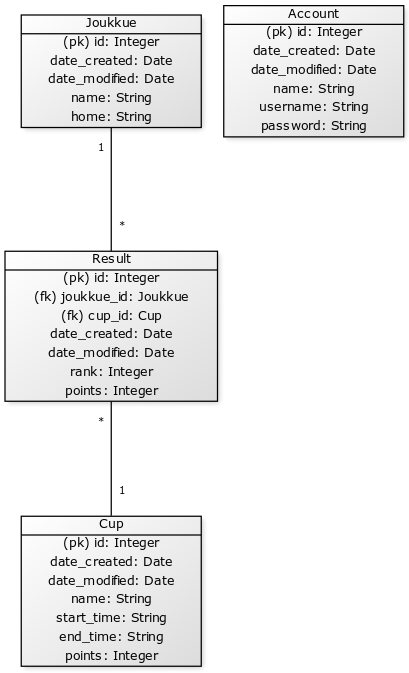
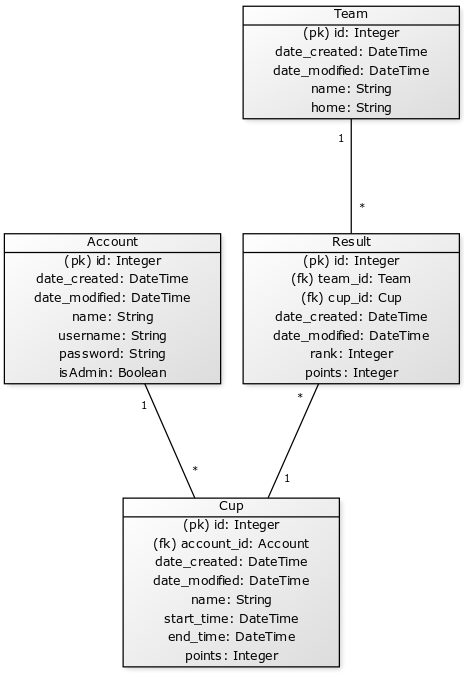
päivitettiin dokumentaatiota

Changed region(s): [[0.0, 0.0, 0.9976, 0.9985], [0.0293, 0.0312, 0.0587, 0.1872], [0.6161, 0.6241, 0.6455, 0.6865]]

diff --git a/README.md b/README.md
@@ -8,10 +8,10 @@ Rankkauslista pitää kirjaa turnauksista ja niissä jaettavista pisteistä, tur
 
 Toimintoja:
 
-* ylläpidon kirjautuminen  
-* joukkueen rekisteröinti  
-* joukkueen tietojen muokkaus ja poisto  
-* turnaukseen ilmoittautuminen  
+* ylläpidon kirjautuminen
+* turnausjärjestäjän kirjautuminen
+* joukkueen luominen, tietojen muokkaus ja poisto  
+* joukkueiden lisääminen turnaukseen  
 * turnaukseen ilmoittautuneiden rankkaus  
 * turnaustulosten kirjaus ja korjaus  
 * yleinen rankkaustilanteen katselu  
@@ -25,9 +25,55 @@ Toimintoja:
 
 [Tietokantakaavio](../master/documentation/tietokantakaavio.png)
 
-### Huomioita
+## Sovelluksen käyttö
 
 Sovelluksessa ei ole erillistä rekisteröitymistoimintoa. Sovelluksen ideana on, että kuka tahansa voi selata turnauksia, joukkueita ja tuloksia, mutta lisäämiseen tai muokkaamiseen tarvitaan tunnukset, joita pitää erikseen pyytää ylläpidolta. Voit tutustua sovelluksen toimintaan kirjautumalla sisään testitunnuksilla.
 
+Turnausjärjestäjän tunnukset: turnausten luominen, muokkaaminen ja poistaminen, joukkueiden lisääminen turnaukseen sekä kyseisen turnauksen tulosten päivittäminen ja poistaminen.
 * käyttäjätunnus: test
 * salasana: testuser1
+
+Ylläpitäjän tunnukset: kaikkien joukkueiden, turnausten ja tulosten luominen, päivittäminen ja poistaminen.
+* käyttäjätunnus: admin
+* salasana: adminuser1
+
+## Sovelluksen asentaminen
+
+### Tuotantoversio
+
+1. kloonaa lähdetiedostot omalle koneellesi haluamaasi kansioon
+```git
+git clone https://github.com/Niddis/Rankkauslista.git
+```
+2. mene kloonatun repositorion hakemistoon
+```git
+cd Rankkauslista
+```
+3. liitä kansio omaan github-repositorioosi
+```git
+git remote add origin _oman repositoriosi url_
+```
+4. pushaa esim. Herokuun
+
+### Paikallinen versio
+
+1. kloonaa lähdetiedostot omalle koneellesi haluamaasi kansioon
+```git
+git clone https://github.com/Niddis/Rankkauslista.git
+```
+2. mene kloonatun repositorion hakemistoon
+```git
+cd Rankkauslista
+```
+3. luo hakemistoon Python-virtuaaliympäristö
+```
+python3 -m venv venv
+```
+4. käynnistä virtuaaliympäristö
+```
+source venv/bin/activate
+```
+5. käynnistä sovellus
+```
+python3 run.py
+```

diff --git a/documentation/kayttotapaukset.md b/documentation/kayttotapaukset.md
@@ -1,7 +1,17 @@
-Turnauksen järjestäjänä haluan lisätä turnaukseen joukkueita ja lisätä joukkueille pisteitä.
+#### Turnauksen järjestäjänä...
+* haluan luoda uusia turnauksia.
+* haluan lisätä luomaani turnaukseen joukkueita.
+* haluan päivittää turnauksen tuloksia.
 
-Lajin seuraajana haluan selata turnauksia, joukkueita ja turnausten tuloksia.
+#### Lajin seuraajana...
+* haluan selata turnauksia, joukkueita ja turnausten tuloksia.
+* haluan tietää miten joukkueeni pärjää suhteessa muihin joukkueisiin seuraamalla joukkueiden pistetilannetta.
 
-Lajin seuraajana haluan tietää miten joukkueeni pärjää suhteessa muihin joukkueisiin seuraamalla joukkueiden pistetilannetta.
+SQL-kysely: "SELECT Team.name, Team.home, SUM(Result.points) AS points, Team.id FROM Team LEFT JOIN Result ON Team.id = Result.team_id GROUP BY Team.name, Team.home, Team.id ORDER BY points DESC"
 
-Joukkueen omistajana tms. haluan lisätä joukkueeni rankkauslistalle.
+* haluan tietää, milloin seuraava turnaus järjestetään.
+
+SQL-kysely: "SELECT Cup.name, Cup.start_time, Cup.end_time, Cup.points, COUNT(Result.team_id) AS teams FROM Cup LEFT JOIN Result ON Cup.id = Result.cup_id WHERE Cup.start_time >= CURRENT_TIMESTAMP GROUP BY Cup.name, Cup.start_time, Cup.end_time, Cup.points ORDER BY Cup.start_time"
+
+#### Ylläpitäjänä...
+* haluan hallinoida joukkueita, turnauksia ja tuloksia.

diff --git a/documentation/CreateTable_lauseet.md b/documentation/CreateTable_lauseet.md
@@ -1,0 +1,41 @@
+CREATE TABLE Team (
+    id integer PRIMARY KEY,
+    date_created datetime,
+    date_modified datetime,
+    name varchar(144),
+    home varchar(144)
+);
+
+CREATE TABLE Account (
+    id integer PRIMARY KEY,
+    date_created datetime,
+    date_modified datetime,
+    name varchar(144),
+    username varchar(144),
+    password varchar(144),
+    isAdmin boolean
+);
+
+CREATE TABLE Cup (
+    id integer PRIMARY KEY,
+    date_created datetime,
+    date_modified datetime,
+    account_id integer,
+    name varchar(144),
+    start_time datetime,
+    end_time datetime,
+    points integer,
+    FOREIGN KEY (account_id) REFERENCES Account(id)
+);
+
+CREATE TABLE Result (
+    id integer PRIMARY KEY,
+    date_created datetime,
+    date_modified datetime,
+    joukkue_id integer,
+    cup_id integer,
+    rank integer,
+    points integer,
+    FOREIGN KEY (team_id) REFERENCES Team(id),
+    FOREIGN KEY (cup_id) REFERENCES Cup(id)
+)
